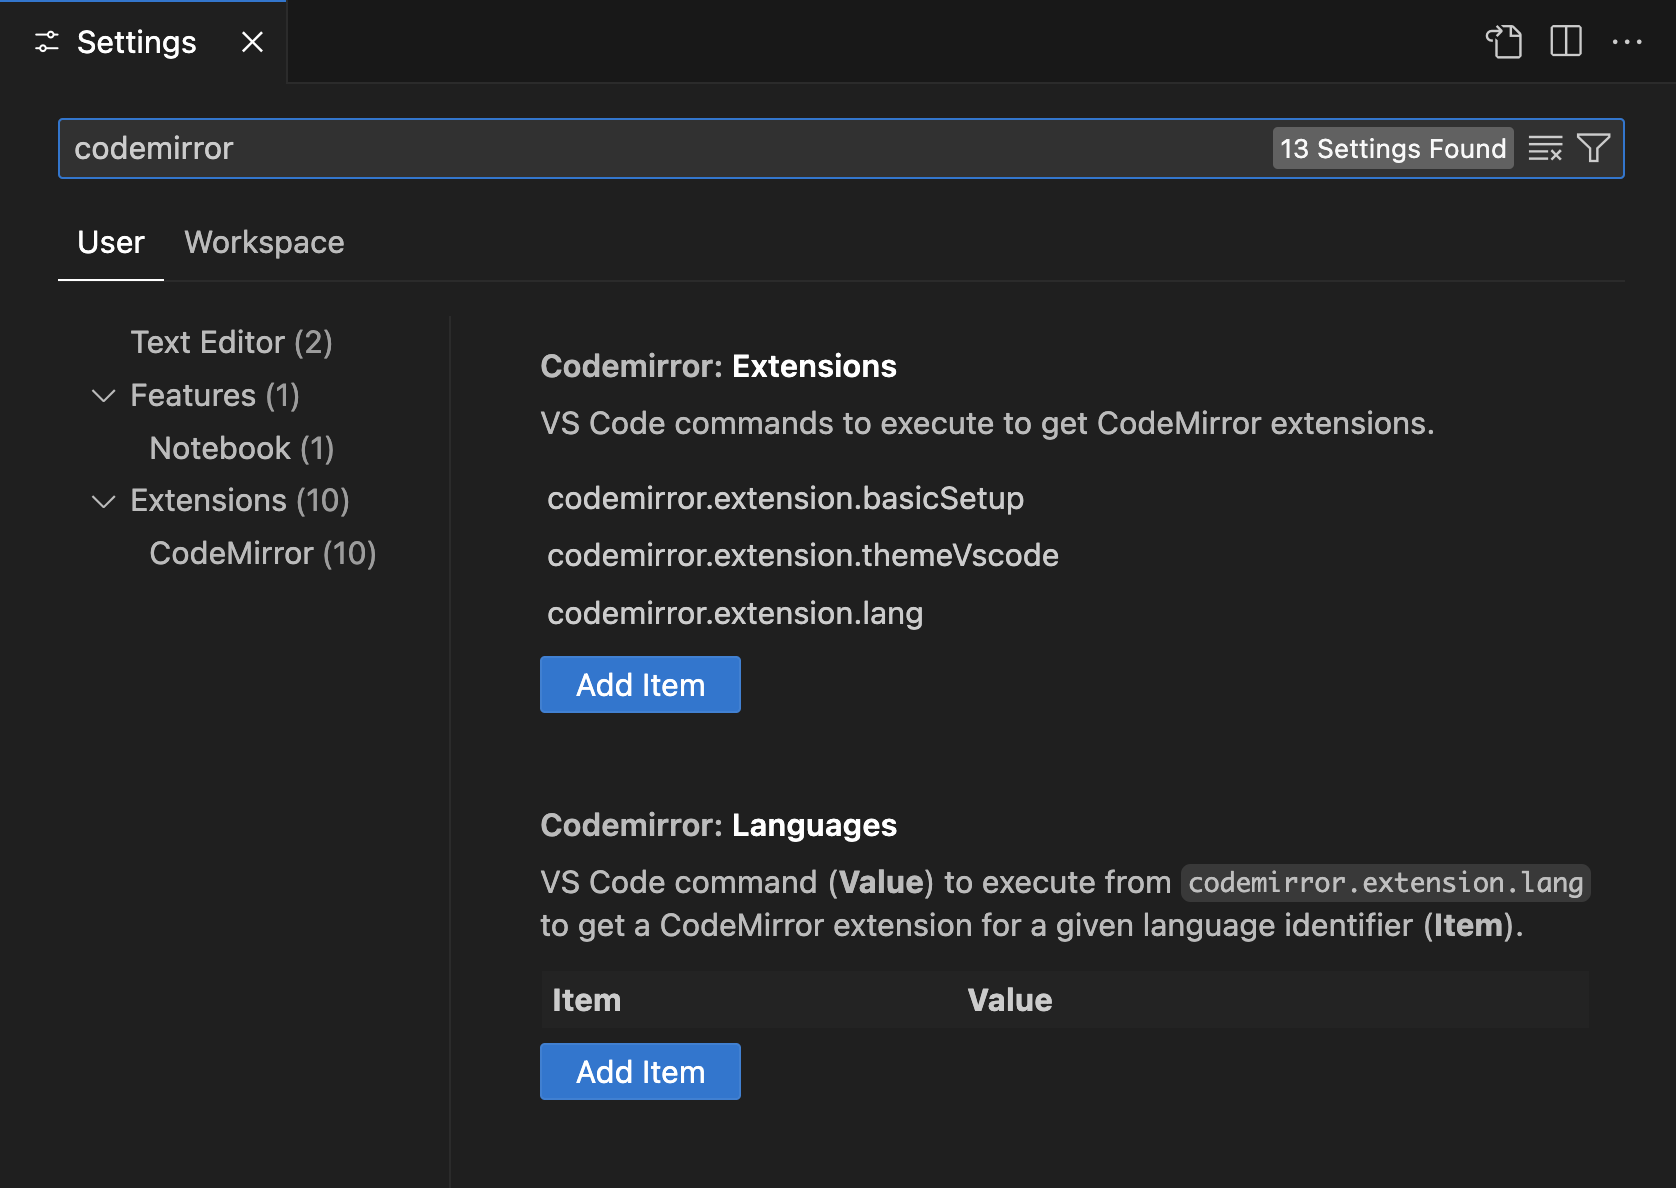
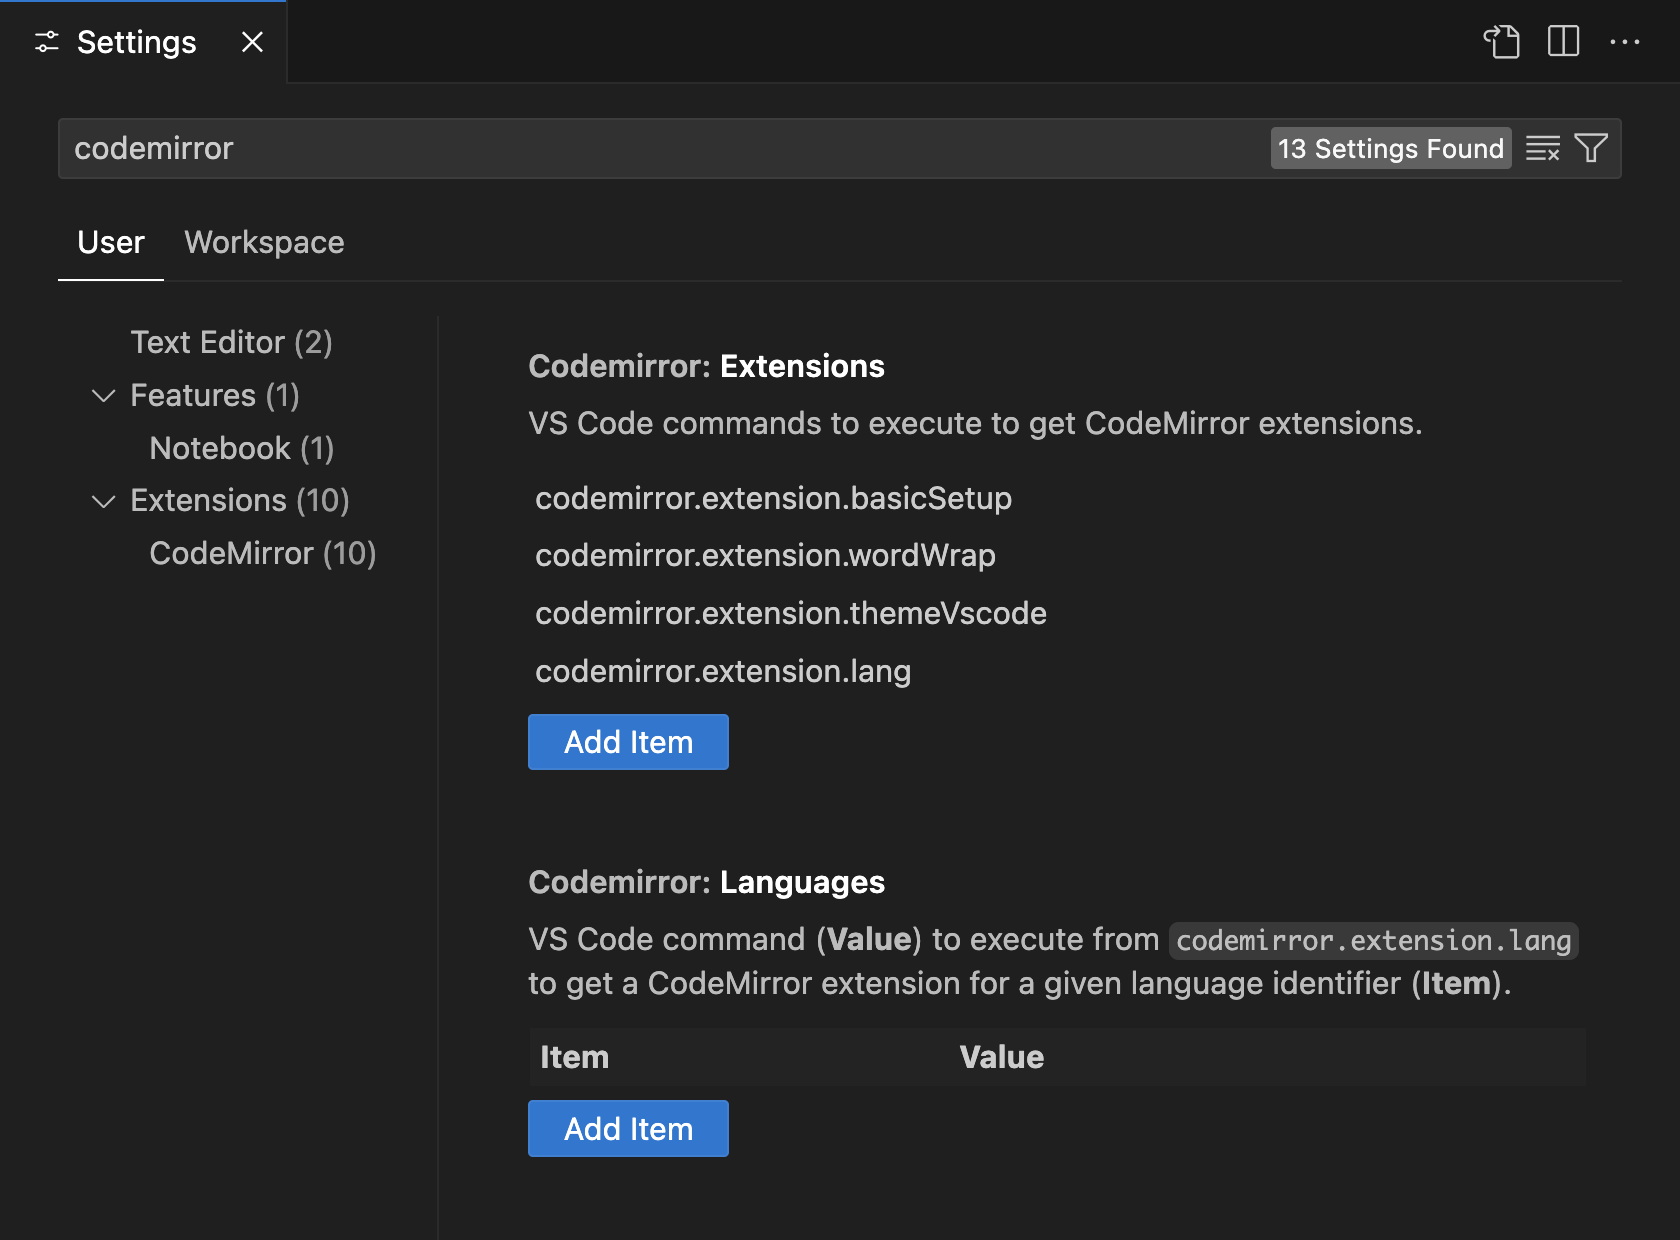
Toggle word wrap via VS Code setting

diff --git a/packages/codemirror/src/extension.ts b/packages/codemirror/src/extension.ts
@@ -52,7 +52,7 @@ const open = async (
 
   const cmCtx: CodeMirrorContext = {
     asWebviewUri: (uri) => webview.asWebviewUri(uri),
-    languageId: document.languageId,
+    editor,
   };
   log.trace("CodeMirror context:", cmCtx);
   const extensions = await Promise.all(
@@ -118,6 +118,16 @@ export const activate = async (context: vscode.ExtensionContext) => {
       "codemirror.extension.minimalSetup",
       async (cmCtx: CodeMirrorContext): Promise<ExtensionData<[]>> => {
         return { uri: getUri(cmCtx, "basic-setup"), name: "minimal", args: [] };
+      },
+    ),
+    vscode.commands.registerCommand(
+      "codemirror.extension.wordWrap",
+      async (cmCtx: CodeMirrorContext): Promise<ExtensionData<any>> => {
+        const wordWrap = vscode.workspace
+          .getConfiguration("editor", cmCtx.editor.document)
+          .get<"on" | "off">("wordWrap");
+        const uri = getUri(cmCtx, wordWrap === "on" ? "word-wrap" : "empty");
+        return { uri, args: [] };
       },
     ),
     vscode.commands.registerCommand(

diff --git a/packages/codemirror-vscode/index.d.ts b/packages/codemirror-vscode/index.d.ts
@@ -5,8 +5,8 @@ export interface CodeMirrorContext {
   /** Convert a `file:` URI to a webview URI. */
   asWebviewUri: (uri: vscode.Uri) => vscode.Uri;
 
-  /** VS Code language ID of the document. */
-  languageId: string;
+  /** VS Code editor. */
+  editor: vscode.TextEditor;
 }
 
 /** Data returned from a VS Code command for a CodeMirror extension. */

diff --git a/packages/codemirror/src/lang.ts b/packages/codemirror/src/lang.ts
@@ -23,7 +23,7 @@ const known = new Set([
 export default async (
   cmCtx: CodeMirrorContext,
 ): Promise<ExtensionData<any> | undefined> => {
-  const name = cmCtx.languageId;
+  const name = cmCtx.editor.document.languageId;
   const cfg =
     vscode.workspace
       .getConfiguration("codemirror")

diff --git a/packages/codemirror/src/extensions/word-wrap.ts b/packages/codemirror/src/extensions/word-wrap.ts
@@ -1,0 +1,4 @@
+import { Extension } from "@codemirror/state";
+import { EditorView } from "@codemirror/view";
+
+export default async (): Promise<Extension> => EditorView.lineWrapping;

diff --git a/README.md b/README.md
@@ -34,6 +34,8 @@ Here is a list of the CodeMirror extensions included in this VS Code extension:
 
 - **`codemirror.extension.minimalSetup`** is the `minimalSetup` extension from that same `codemirror` npm package, which is a "minimal set of extensions to create a functional editor."
 
+- **`codemirror.extension.wordWrap`** is the CodeMirror [`EditorView.lineWrapping`](https://codemirror.net/docs/ref/#view.EditorView^lineWrapping) extension, gated by the VS Code [`editor.wordWrap`](https://code.visualstudio.com/docs/editing/codebasics#_how-do-i-turn-on-word-wrap) setting.
+
 - **`codemirror.extension.themeVscode`** uses the VS Code [color theme kind](https://code.visualstudio.com/api/references/vscode-api#ColorThemeKind) to select between the dark and light themes provided by the [`@uiw/codemirror-theme-vscode`](https://www.npmjs.com/package/@uiw/codemirror-theme-vscode/v/4.23.10) npm package.
 
 - **`codemirror.extension.vscodeDark`** applies the VS Code dark theme from the `@uiw/codemirror-theme-vscode` npm package.
